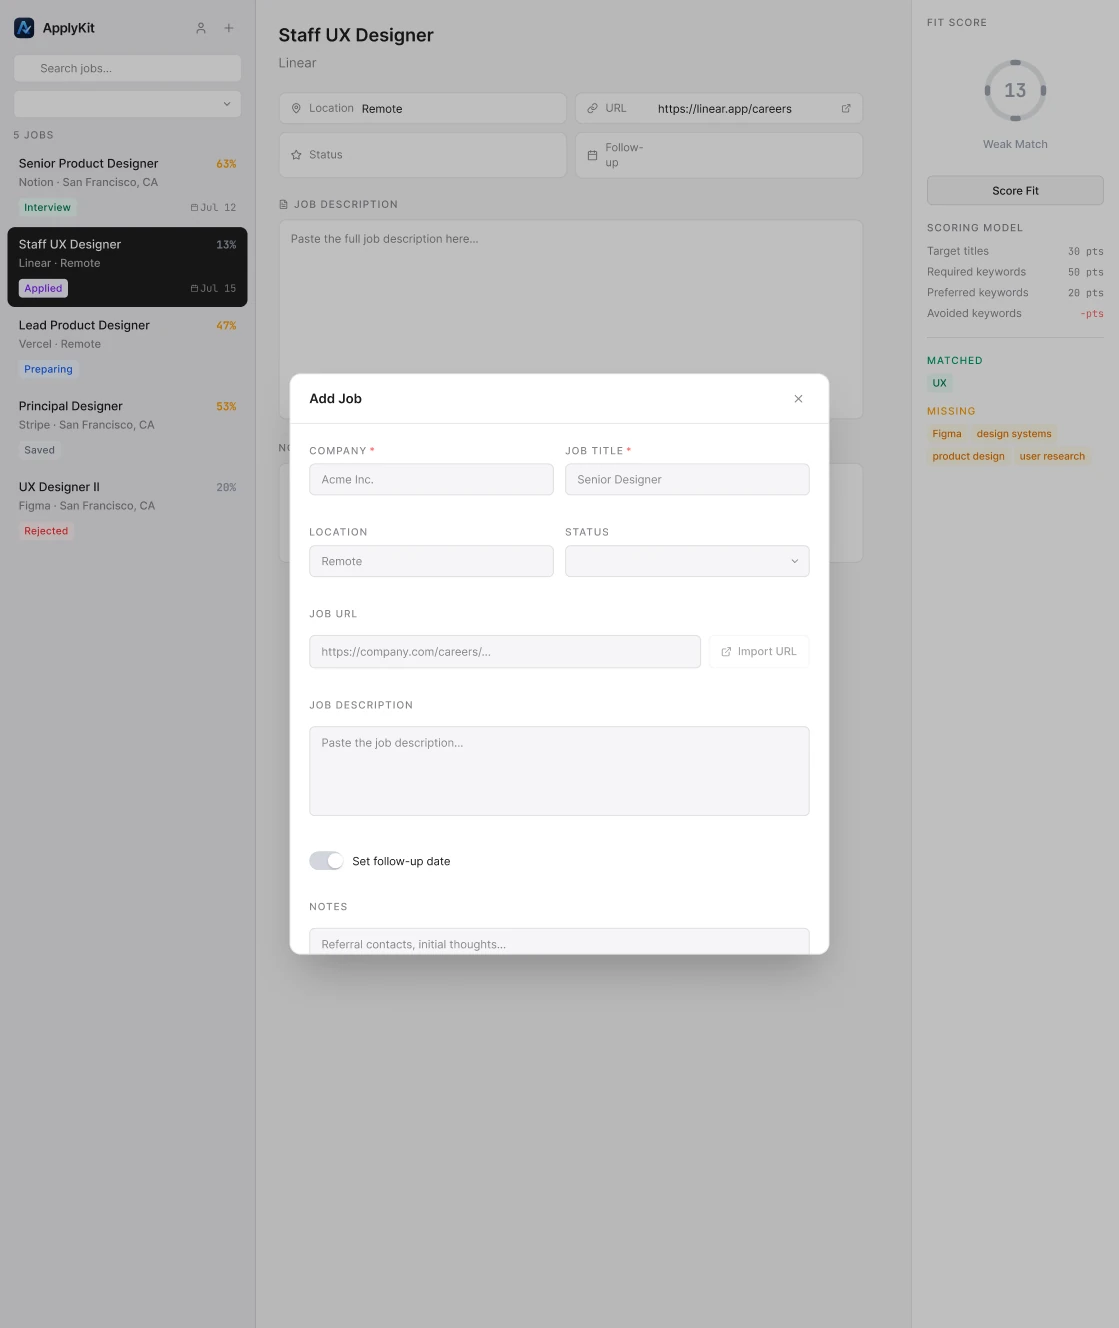
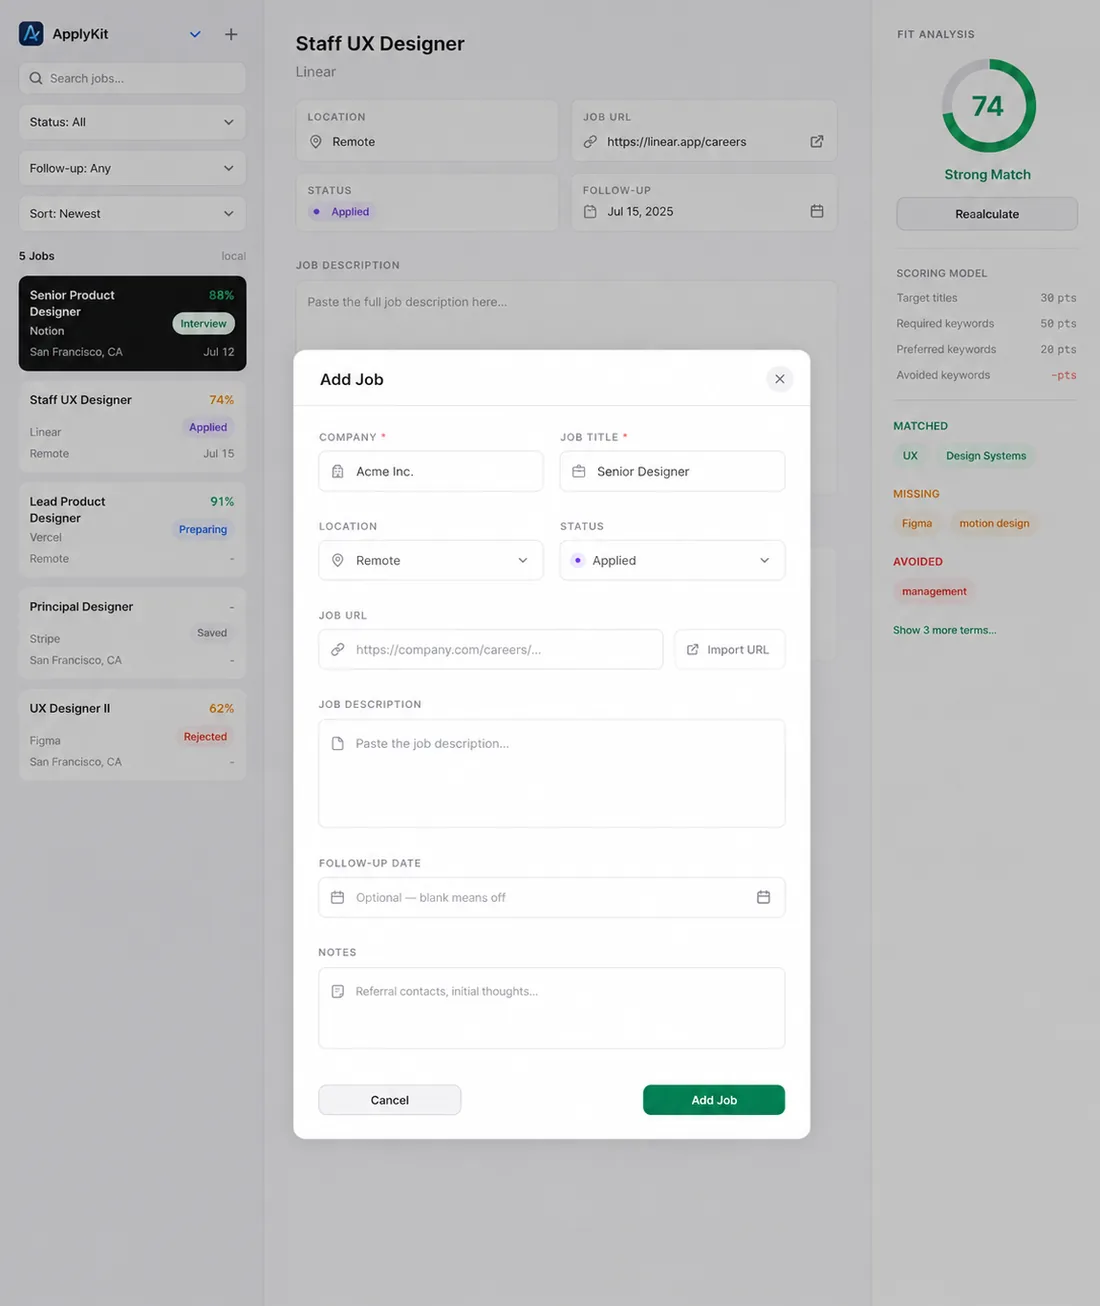
Complete ApplyKit visual refresh

diff --git a/app/work/applykit/page.tsx b/app/work/applykit/page.tsx
@@ -243,8 +243,8 @@ export default function ApplyKitCaseStudy() {
             <Image
               src="/projects/applykit/search-profile.webp"
               alt="ApplyKit Search Profile reference with target titles, required skills, preferred skills, avoided terms, salary, location, and remote preference"
-              width={1119}
-              height={1328}
+              width={1100}
+              height={1306}
               unoptimized
             />
             <figcaption>The search profile exposes the inputs behind every score.</figcaption>
@@ -279,8 +279,8 @@ export default function ApplyKitCaseStudy() {
             <Image
               src="/projects/applykit/interview-detail.webp"
               alt="ApplyKit job detail reference showing an Interview status with round, date, interviewers, type, and preparation notes using demonstration data"
-              width={1091}
-              height={1328}
+              width={1100}
+              height={1340}
               unoptimized
             />
             <figcaption>Stage-specific fields keep interview preparation in the application’s existing context.</figcaption>
@@ -301,15 +301,15 @@ export default function ApplyKitCaseStudy() {
           </div>
           <div className="case-gallery applykit-gallery" data-reveal="stagger">
             <figure>
-              <Image src="/projects/applykit/add-job.webp" alt="ApplyKit Add Job reference with role details, status, description, notes, and follow-up controls" width={1119} height={1328} unoptimized />
+              <Image src="/projects/applykit/add-job.webp" alt="ApplyKit Add Job reference with role details, status, description, notes, and follow-up controls" width={1100} height={1306} unoptimized />
               <figcaption>Focused entry supports manual details alongside URL-based draft import.</figcaption>
             </figure>
             <figure>
-              <Image src="/projects/applykit/bulk-selection.webp" alt="ApplyKit bulk-selection workspace summarizing three selected roles, their status mix, collective fit, and available actions" width={1106} height={1201} unoptimized />
+              <Image src="/projects/applykit/bulk-selection.webp" alt="ApplyKit bulk-selection workspace summarizing three selected roles, their status mix, collective fit, and available actions" width={1200} height={880} unoptimized />
               <figcaption>The refined bulk view summarizes the selection before exposing changes across multiple records.</figcaption>
             </figure>
             <figure className="gallery-tall">
-              <Image src="/projects/applykit/settings.webp" alt="ApplyKit Settings reference showing export, backup, import, reminder, and local-storage information" width={1091} height={900} unoptimized />
+              <Image src="/projects/applykit/settings.webp" alt="ApplyKit Settings reference showing export, backup, import, reminder, appearance, and local-storage information" width={1200} height={990} unoptimized />
               <figcaption>Data controls make backup, migration, reminders, and local storage visible.</figcaption>
             </figure>
           </div>

diff --git a/app/page.tsx b/app/page.tsx
@@ -213,7 +213,7 @@ export default function Home() {
               src="/projects/applykit-overview.webp"
               alt="ApplyKit running in a desktop mockup with a selected job and explainable fit analysis"
               width={800}
-              height={533}
+              height={450}
               loading="lazy"
               unoptimized
             />
